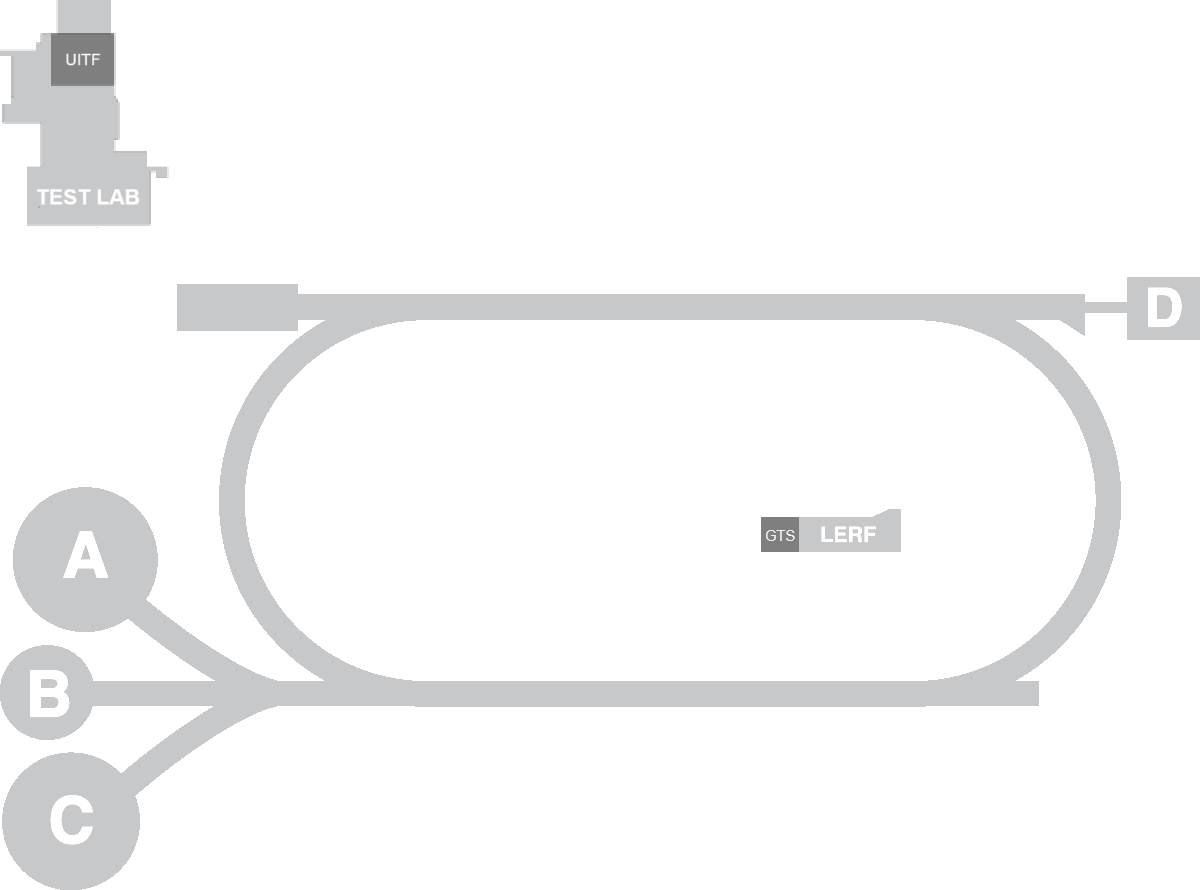
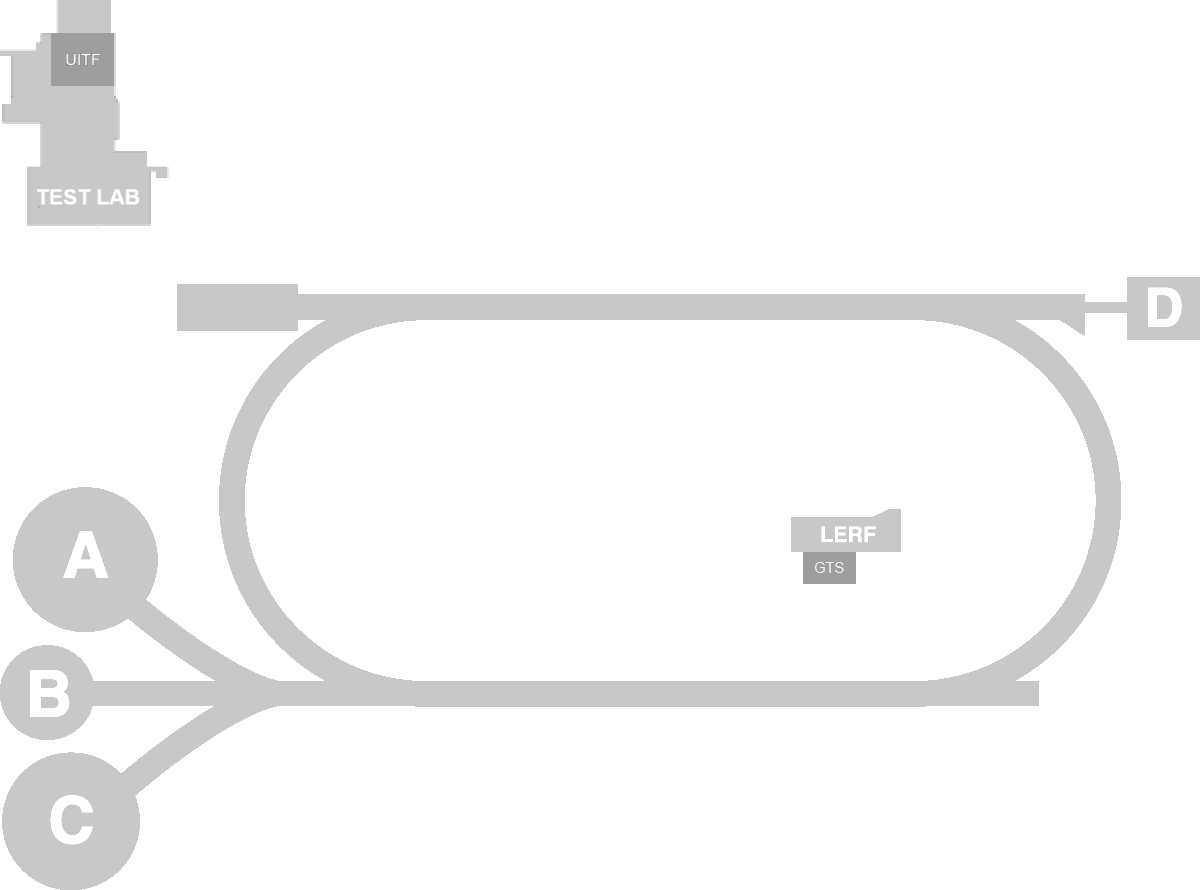
GTS PSS states (#4)

Changed region(s): [[0.6167, 0.5764, 0.7092, 0.6674], [0.0308, 0.0303, 0.0925, 0.1213]]

diff --git a/src/main/webapp/resources/css/workmap.css b/src/main/webapp/resources/css/workmap.css
@@ -255,6 +255,29 @@
     background: url("../img/pss/LERF_yellow_dashed.png") no-repeat scroll 0 0 transparent;
 }
 
+.gts-pss span {
+    height: 37px;
+    width: 103px;
+}
+.gts-pss .beam-permit {
+    background: url("../img/pss/GTS_purple_line.png") no-repeat scroll 0 0 transparent;
+}
+.gts-pss .power-permit {
+    background: url("../img/pss/GTS_red_line.png") no-repeat scroll 0 0 transparent;
+}
+.gts-pss .lock-beam-permit {
+    background: url("../img/pss/GTS_purple_dashed.png") no-repeat scroll 0 0 transparent;
+}
+.gts-pss .lock-power-permit {
+    background: url("../img/pss/GTS_red_dashed.png") no-repeat scroll 0 0 transparent;
+}
+.gts-pss .controlled-access {
+    background: url("../img/pss/GTS_yellow_line.png") no-repeat scroll 0 0 transparent;
+}
+.gts-pss .lock-controlled-access {
+    background: url("../img/pss/GTS_yellow_dashed.png") no-repeat scroll 0 0 transparent;
+}
+
 /* Task Areas */
 .inj1 {
     left: 90px;
@@ -962,10 +985,41 @@
     z-index: 85;
 }
 .fel4 {
-    left: 796px;
+    left: 860px;
     top: 564px;
     z-index: 85;
 }
+.testlab1 {
+    left: 135px;
+    top: 10px;
+    z-index: 100;
+}
+.testlab2 {
+    left: 135px;
+    top: 50px;
+    z-index: 100;
+}
+.testlab3 {
+    left: 135px;
+    top: 90px;
+    z-index: 100;
+}
+.testlab4 {
+    left: 135px;
+    top: 130px;
+    z-index: 100;
+}
+.testlab5 {
+    left: 173px;
+    top: 170px;
+    z-index: 100;
+}
+.testlab6 {
+    left: 173px;
+    top: 210px;
+    z-index: 100;
+}
+
 /* PSS Areas */
 .nl-pss {
     left: 234px;
@@ -1007,6 +1061,10 @@
     left: 800px;
     top: 525px;
 }
+.gts-pss {
+    left: 810px;
+    top: 565px;
+}
 .editable-nl-pss {
     left: 610px;
     top: 235px;
@@ -1044,38 +1102,12 @@
     top: 785px;
 }
 .editable-fel-pss {
-    left: 800px;
+    left: 750px;
     top: 539px;
 }
-.testlab1 {
-    left: 135px;
-    top: 10px;
-    z-index: 100;
-}
-.testlab2 {
-    left: 135px;
-    top: 50px;
-    z-index: 100;
-}
-.testlab3 {
-    left: 135px;
-    top: 90px;
-    z-index: 100;
-}
-.testlab4 {
-    left: 135px;
-    top: 130px;
-    z-index: 100;
-}
-.testlab5 {
-    left: 173px;
-    top: 170px;
-    z-index: 100;
-}
-.testlab6 {
-    left: 173px;
-    top: 210px;
-    z-index: 100;
+.editable-gts-pss {
+    left: 750px;
+    top: 569px;
 }
 /* Map Layout */
 .area {     
